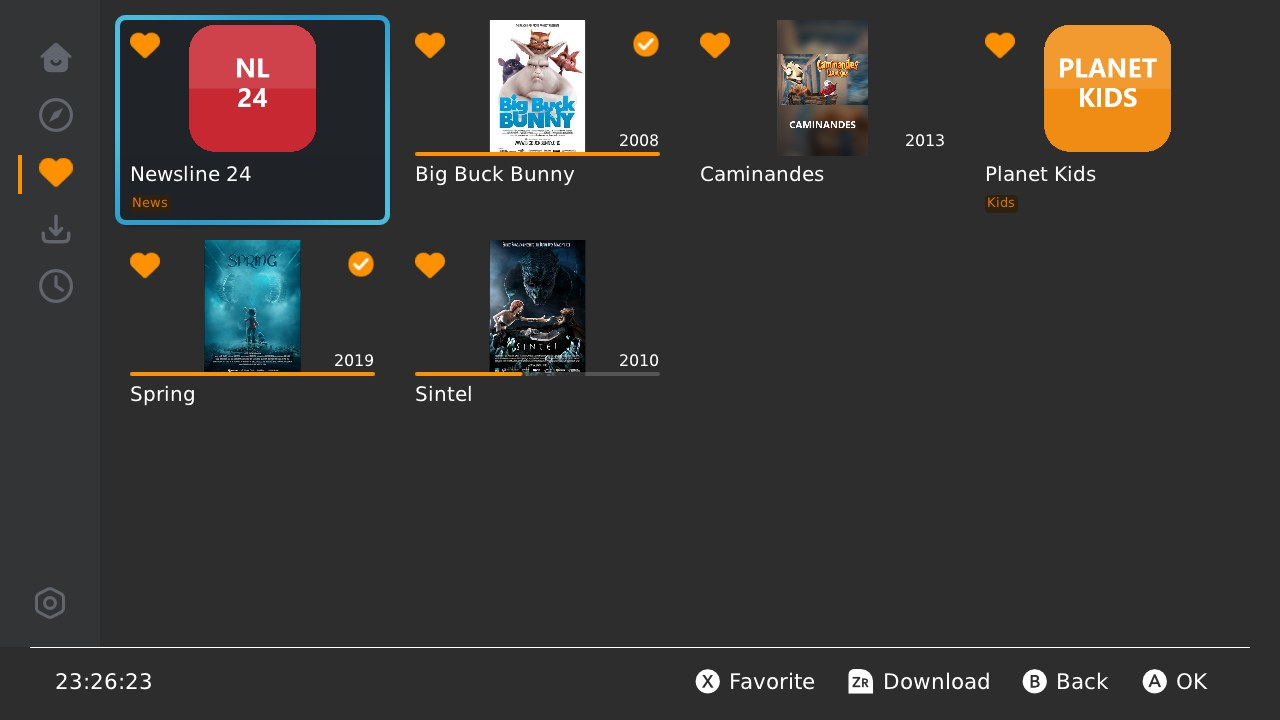
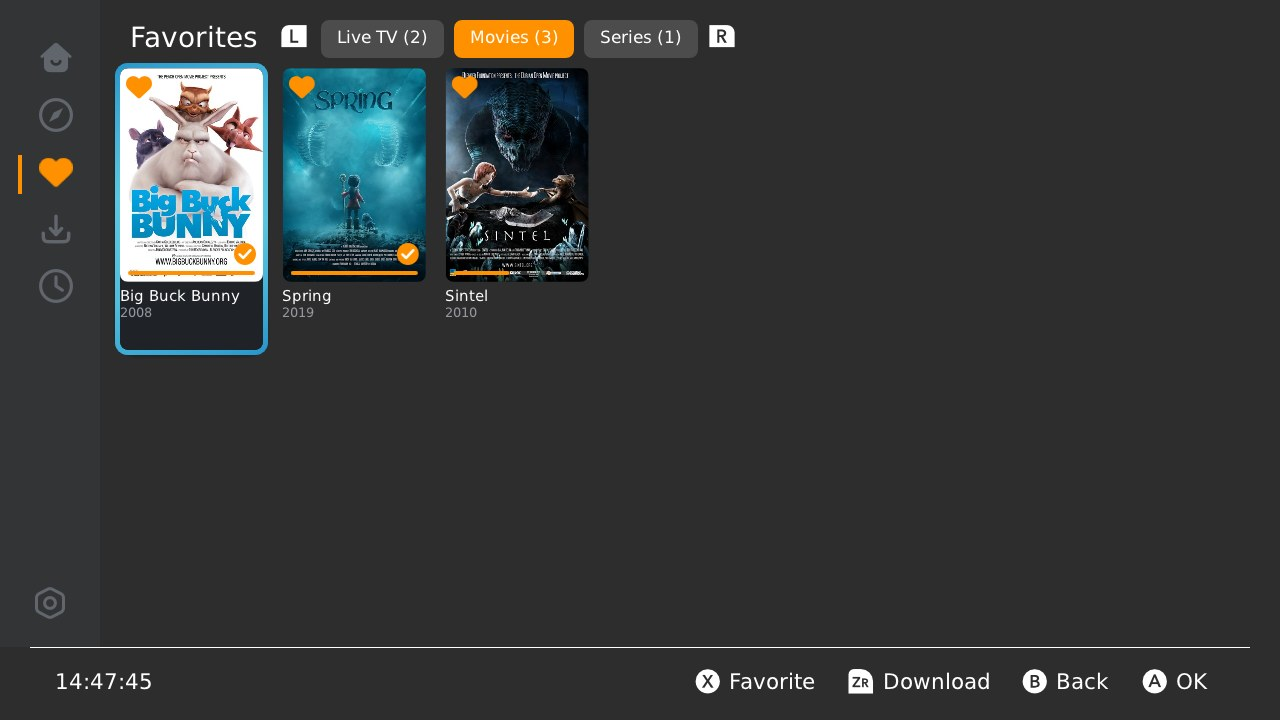
1.3.1

diff --git a/CHANGELOG.md b/CHANGELOG.md
@@ -1,6 +1,6 @@
 # Changelog
 
-## 1.3.1 - not released yet
+## 1.3.1 - 2026-09-29
 
 - Favorites: movies and series show as posters like in the lists, channels as channel cards. With favorites of
   several kinds a chip per kind (Live TV, Movies, Series) picks what is shown; L and R change it.
